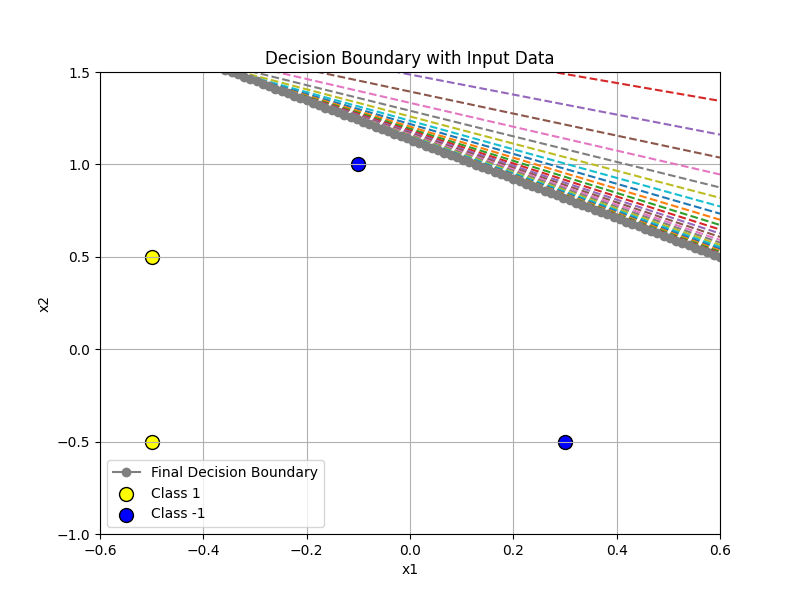
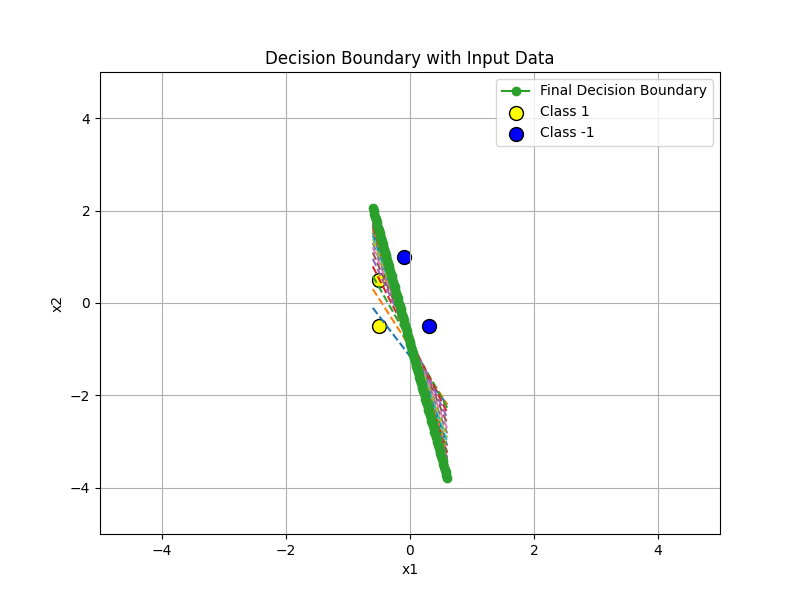
modified .py files

diff --git a/112C71001_adaline_hw1.py b/112C71001_adaline_hw1.py
@@ -1,13 +1,14 @@
 import numpy as np
 import matplotlib.pyplot as plt
+from icecream import ic
 
 # Parameters
 LEARNING_RATE = 0.2
 EPOCHS = 200
 EPSILON = 1e-5  # Convergence criterion for MSE
-BIAS = -1
 
-X = np.array([[-0.5, -0.5], [-0.5, 0.5], [0.3, -0.5], [-0.1, 1.0]])
+
+X = np.array([[-1, -0.5, -0.5], [-1, -0.5, 0.5], [-1, 0.3, -0.5], [-1, -0.1, 1.0]])
 y = np.array([1, 1, -1, -1])
 
 # Initialize weights (including the bias weight)
@@ -23,7 +24,7 @@ for epoch in range(EPOCHS):
 
     for inputs, target in zip(X, y):
         # Net input (linear combination of inputs and weights)
-        net_input = np.dot(inputs, weights) - BIAS
+        net_input = np.dot(inputs, weights)
 
         # Error (difference between desired output and actual output)
         error = target - net_input
@@ -48,6 +49,11 @@ for epoch in range(EPOCHS):
         converged_epoch = epoch
         print(f"Converged at epoch {epoch}")
         break
+
+
+# ic(weights_per_epoch)
+ic(weights)
+
 
 # Plot 1: Mean Squared Error (MSE) over epochs
 plt.figure(figsize=(8, 6))
@@ -88,9 +94,9 @@ x1_values = np.linspace(x_min, x_max, 100)
 # Boundary line: x2 = (BIAS - w1*x1) / w2
 for i, epoch_weights in enumerate(weights_per_epoch):
     if i < len(weights_per_epoch) - 1:
-        # Decision boundary: x2 = (bias - w1*x1) / w2
-        if not np.isclose(epoch_weights[1], 0):
-            decision_boundary = (BIAS - epoch_weights[0] * x1_values) / epoch_weights[1]
+        # Decision boundary: x2 = (w0 - w1*x1) / w2
+        if not np.isclose(epoch_weights[2], 0):
+            decision_boundary = (epoch_weights[0] - epoch_weights[1] * x1_values) / epoch_weights[2]
             plt.plot(
                 x1_values,
                 decision_boundary,
@@ -98,14 +104,14 @@ for i, epoch_weights in enumerate(weights_per_epoch):
             )
 
 # Plot final decision boundary
-if not np.isclose(weights[1], 0):  # Make sure the denominator is not zero
-    decision_boundary = (BIAS - weights[0] * x1_values) / weights[1]
+if not np.isclose(weights[2], 0):  # Make sure the denominator is not zero
+    decision_boundary = (weights[0] - weights[1] * x1_values) / weights[2]
     plt.plot(x1_values, decision_boundary, "o-", label="Final Decision Boundary")
 
 # Plot data points
 plt.scatter(
-    X[y == 1][:, 0],
     X[y == 1][:, 1],
+    X[y == 1][:, 2],
     c="yellow",
     edgecolors="k",
     marker="o",
@@ -113,8 +119,8 @@ plt.scatter(
     label="Class 1",
 )
 plt.scatter(
-    X[y == -1][:, 0],
     X[y == -1][:, 1],
+    X[y == -1][:, 2],
     c="blue",
     edgecolors="k",
     marker="o",
@@ -123,8 +129,10 @@ plt.scatter(
 )
 
 # Set limits and labels
-plt.xlim(x_min, x_max)
-plt.ylim(X[:, 1].min() - 0.5, X[:, 1].max() + 0.5)
+# plt.xlim(x_min, x_max)
+plt.xlim(-5, 5)
+# plt.ylim(X[:, 2].min() - 0.5, X[:, 2].max() + 0.5)
+plt.ylim(-5, 5)
 plt.title("Decision Boundary with Input Data")
 plt.xlabel("x1")
 plt.ylabel("x2")

diff --git a/112C71001_perceptron_hw1.py b/112C71001_perceptron_hw1.py
@@ -3,12 +3,12 @@ import matplotlib.pyplot as plt
 from icecream import ic
 
 # Parameters
-LEARNING_RATE = 0.3
-EPOCHS = 50
-BIAS = -1
+LEARNING_RATE = 0.1
+EPOCHS = 10
 
 
-X = np.array([[-0.5, -0.5], [-0.5, 0.5], [0.3, -0.5], [-0.1, 1.0]])
+
+X = np.array([[-1, -0.5, -0.5], [-1, -0.5, 0.5], [-1, 0.3, -0.5], [-1, -0.1, 1.0]])
 y = np.array([1, 1, -1, -1])
 
 # Initialize weights Small random initialization
@@ -27,7 +27,7 @@ for epoch in range(EPOCHS):
         iteration += 1
 
         # Net input (linear combination of inputs and weights)
-        net_input = np.dot(inputs, weights) - BIAS
+        net_input = np.dot(inputs, weights)
 
         # Prediction using sign activation function
         prediction = np.sign(net_input)
@@ -48,16 +48,19 @@ for epoch in range(EPOCHS):
     if errors == 0:
         print(f"Perceptron converged at epoch {epoch}")
         break
+    
 # Plot 1: Decision Boundary Lines for each epoch
 plt.figure(figsize=(8, 6))
-x_min, x_max = -0.6, 0.6
+x_min, x_max = -0.9, 0.9
 x1_values = np.linspace(x_min, x_max, 100)
+
+ic(weights_per_epoch)
 
 for i, epoch_weights in enumerate(weights_per_epoch):
     if i < len(weights_per_epoch) - 1:
-        # Decision boundary: x2 = (bias - w1*x1) / w2
-        if not np.isclose(epoch_weights[1], 0):
-            decision_boundary = (BIAS - epoch_weights[0] * x1_values) / epoch_weights[1]
+        # Decision boundary: x2 = (w0 - w1*x1) / w2
+        if not np.isclose(epoch_weights[2], 0):
+            decision_boundary = (epoch_weights[0] - epoch_weights[1] * x1_values) / epoch_weights[2]
             plt.plot(
                 x1_values,
                 decision_boundary,
@@ -65,14 +68,14 @@ for i, epoch_weights in enumerate(weights_per_epoch):
             )
 
 # Plot final decision boundary
-if not np.isclose(weights[1], 0):
-    final_decision_boundary = (BIAS - weights[0] * x1_values) / weights[1]
+if not np.isclose(weights[2], 0):
+    final_decision_boundary = (weights[0] - weights[1] * x1_values) / weights[2]
     plt.plot(x1_values, final_decision_boundary, "o-", label="Final Decision Boundary")
 
 # Plot data points
 plt.scatter(
-    X[y == 1][:, 0],
     X[y == 1][:, 1],
+    X[y == 1][:, 2],
     c="yellow",
     edgecolors="k",
     marker="o",
@@ -80,16 +83,20 @@ plt.scatter(
     label="Class 1",
 )
 plt.scatter(
-    X[y == -1][:, 0],
     X[y == -1][:, 1],
+    X[y == -1][:, 2],
     c="blue",
     edgecolors="k",
     marker="o",
     s=100,
     label="Class -1",
 )
-plt.xlim(x_min, x_max)
-plt.ylim(X[:, 1].min() - 0.5, X[:, 1].max() + 0.5)
+# plt.xlim(x_min - 1.0, x_max + 1.0)
+plt.xlim(-4, 4)
+
+# plt.ylim(X[:, 2].min() - 1.0, X[:, 2].max() + 1.0)
+plt.ylim(-4, 4)
+
 plt.title("Perceptron Decision Boundaries per Epoch")
 plt.xlabel("x1")
 plt.ylabel("x2")

diff --git a/112C71001_perceptron_hw1_3d.py b/112C71001_perceptron_hw1_3d.py
@@ -3,15 +3,16 @@
 import numpy as np
 import matplotlib.pyplot as plt
 from mpl_toolkits.mplot3d import Axes3D
+from icecream import ic
 
 # Parameters
 LEARNING_RATE = 0.3
 EPOCHS = 50
-BIAS = -1
+
 
 # 3D input data (x1, x2, x3)
 X = np.array(
-    [[-0.5, -0.5, 0.2], [-0.5, 0.5, -0.3], [0.3, -0.5, 0.8], [-0.1, 1.0, -0.5]]
+    [[-1, -0.5, -0.5, 0.2], [-1, -0.5, 0.5, -0.3], [-1, 0.3, -0.5, 0.8], [-1, -0.1, 1.0, -0.5]]
 )
 y = np.array([1, 1, -1, -1])
 
@@ -31,7 +32,7 @@ for epoch in range(EPOCHS):
         iteration += 1
 
         # Net input (linear combination of inputs and weights)
-        net_input = np.dot(inputs, weights) - BIAS
+        net_input = np.dot(inputs, weights)
 
         # Prediction using sign activation function
         prediction = np.sign(net_input)
@@ -53,6 +54,9 @@ for epoch in range(EPOCHS):
         print(f"Perceptron converged at epoch {epoch}")
         break
 
+ic(weights_per_epoch)
+ic(weights)
+
 # Plot 3D Decision Planes over Epochs
 fig = plt.figure(figsize=(10, 8))
 ax = fig.add_subplot(111, projection="3d")
@@ -67,32 +71,32 @@ for i, epoch_weights in enumerate(weights_per_epoch):
 
     if i < len(weights_per_epoch) - 1:
         if not np.isclose(
-            epoch_weights[2], 0
+            epoch_weights[-1], 0
         ):  # Avoid division by zero in x3 calculation
             x3_mesh = (
-                BIAS - epoch_weights[0] * x1_mesh - epoch_weights[1] * x2_mesh
-            ) / epoch_weights[2]
+                epoch_weights[0] - epoch_weights[1] * x1_mesh - epoch_weights[2] * x2_mesh
+            ) / epoch_weights[-1]
             ax.plot_surface(x1_mesh, x2_mesh, x3_mesh, alpha=0.1)
 
-if not np.isclose(weights[2], 0):
-    x3_mesh = (BIAS - weights[0] * x1_mesh - weights[1] * x2_mesh) / weights[2]
+if not np.isclose(weights[-1], 0):
+    x3_mesh = (weights[0] - weights[1] * x1_mesh - weights[2] * x2_mesh) / weights[-1]
     ax.plot_surface(x1_mesh, x2_mesh, x3_mesh, alpha=0.8, label="Final Decision Plane")
 
 
 # Plot data points
 ax.scatter(
-    X[y == 1][:, 0],
     X[y == 1][:, 1],
     X[y == 1][:, 2],
+    X[y == 1][:, 3],
     c="yellow",
     marker="^",
     s=200,
     # label="Class 1",
 )
 ax.scatter(
-    X[y == -1][:, 0],
     X[y == -1][:, 1],
     X[y == -1][:, 2],
+    X[y == -1][:, 3],
     c="red",
     marker="o",
     s=200,
